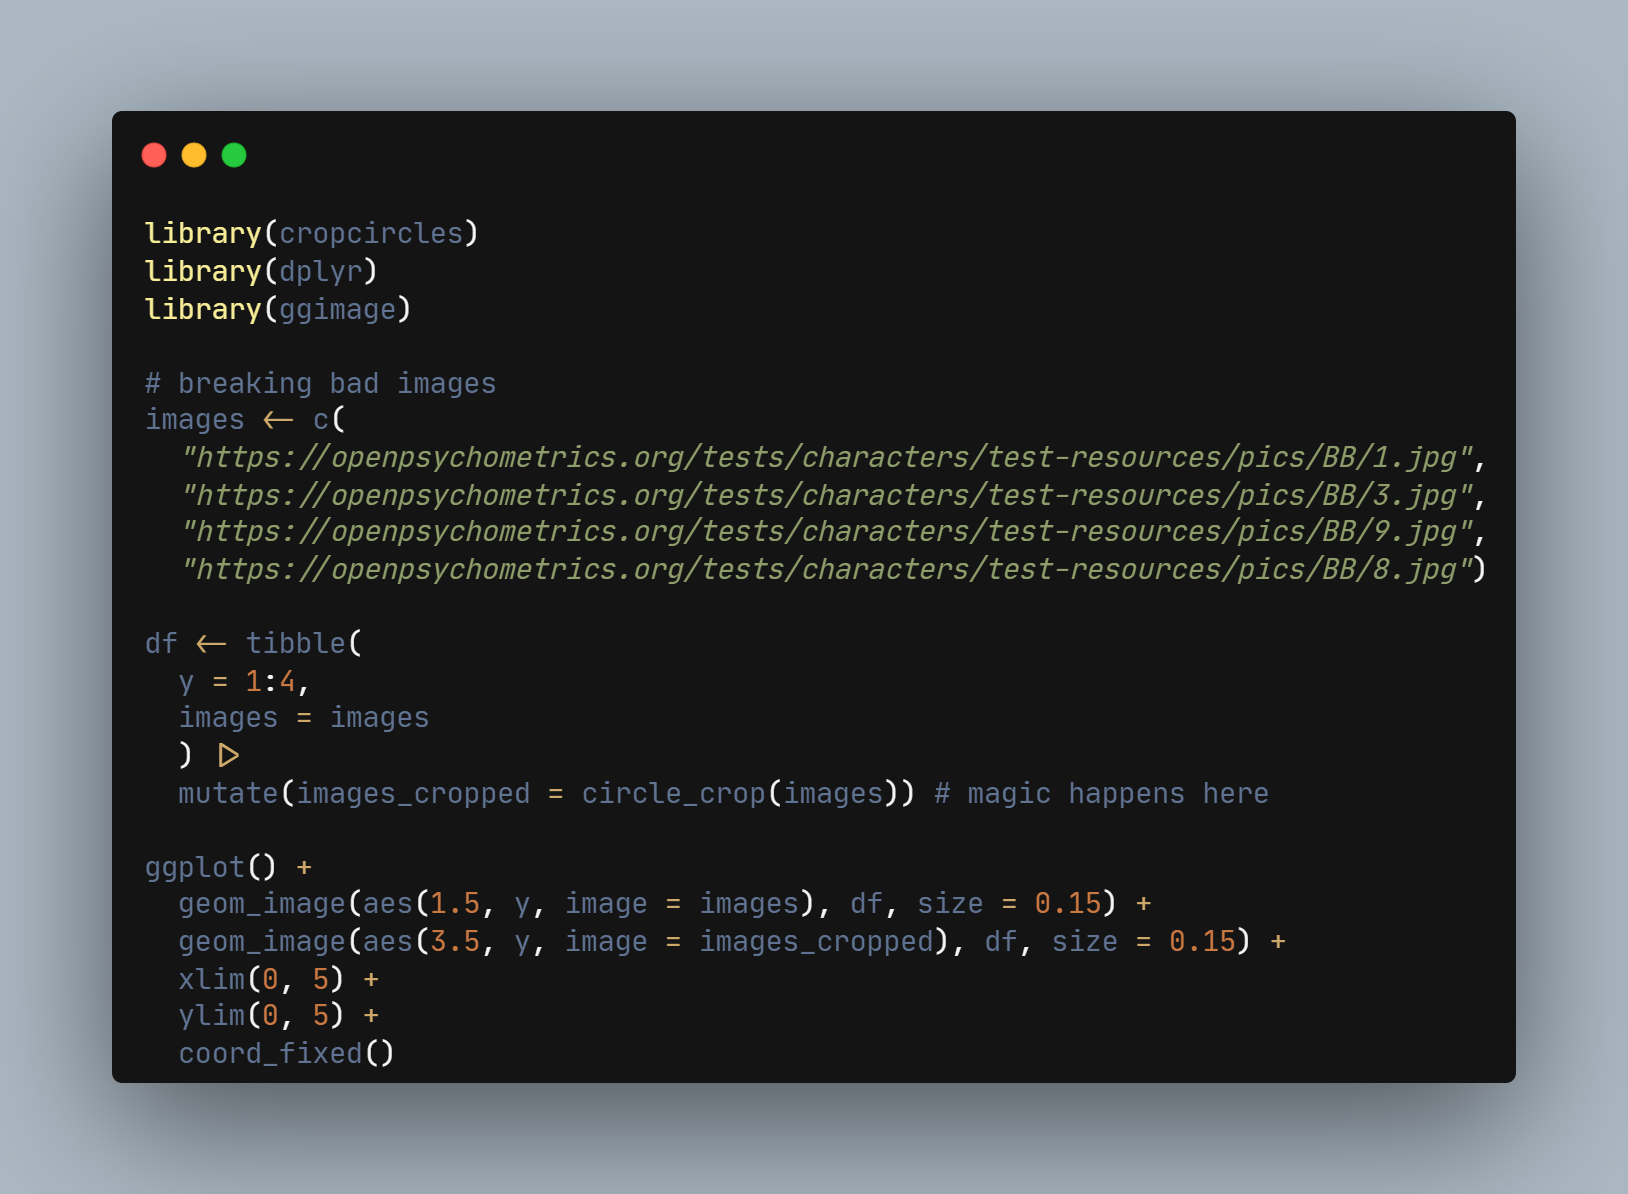
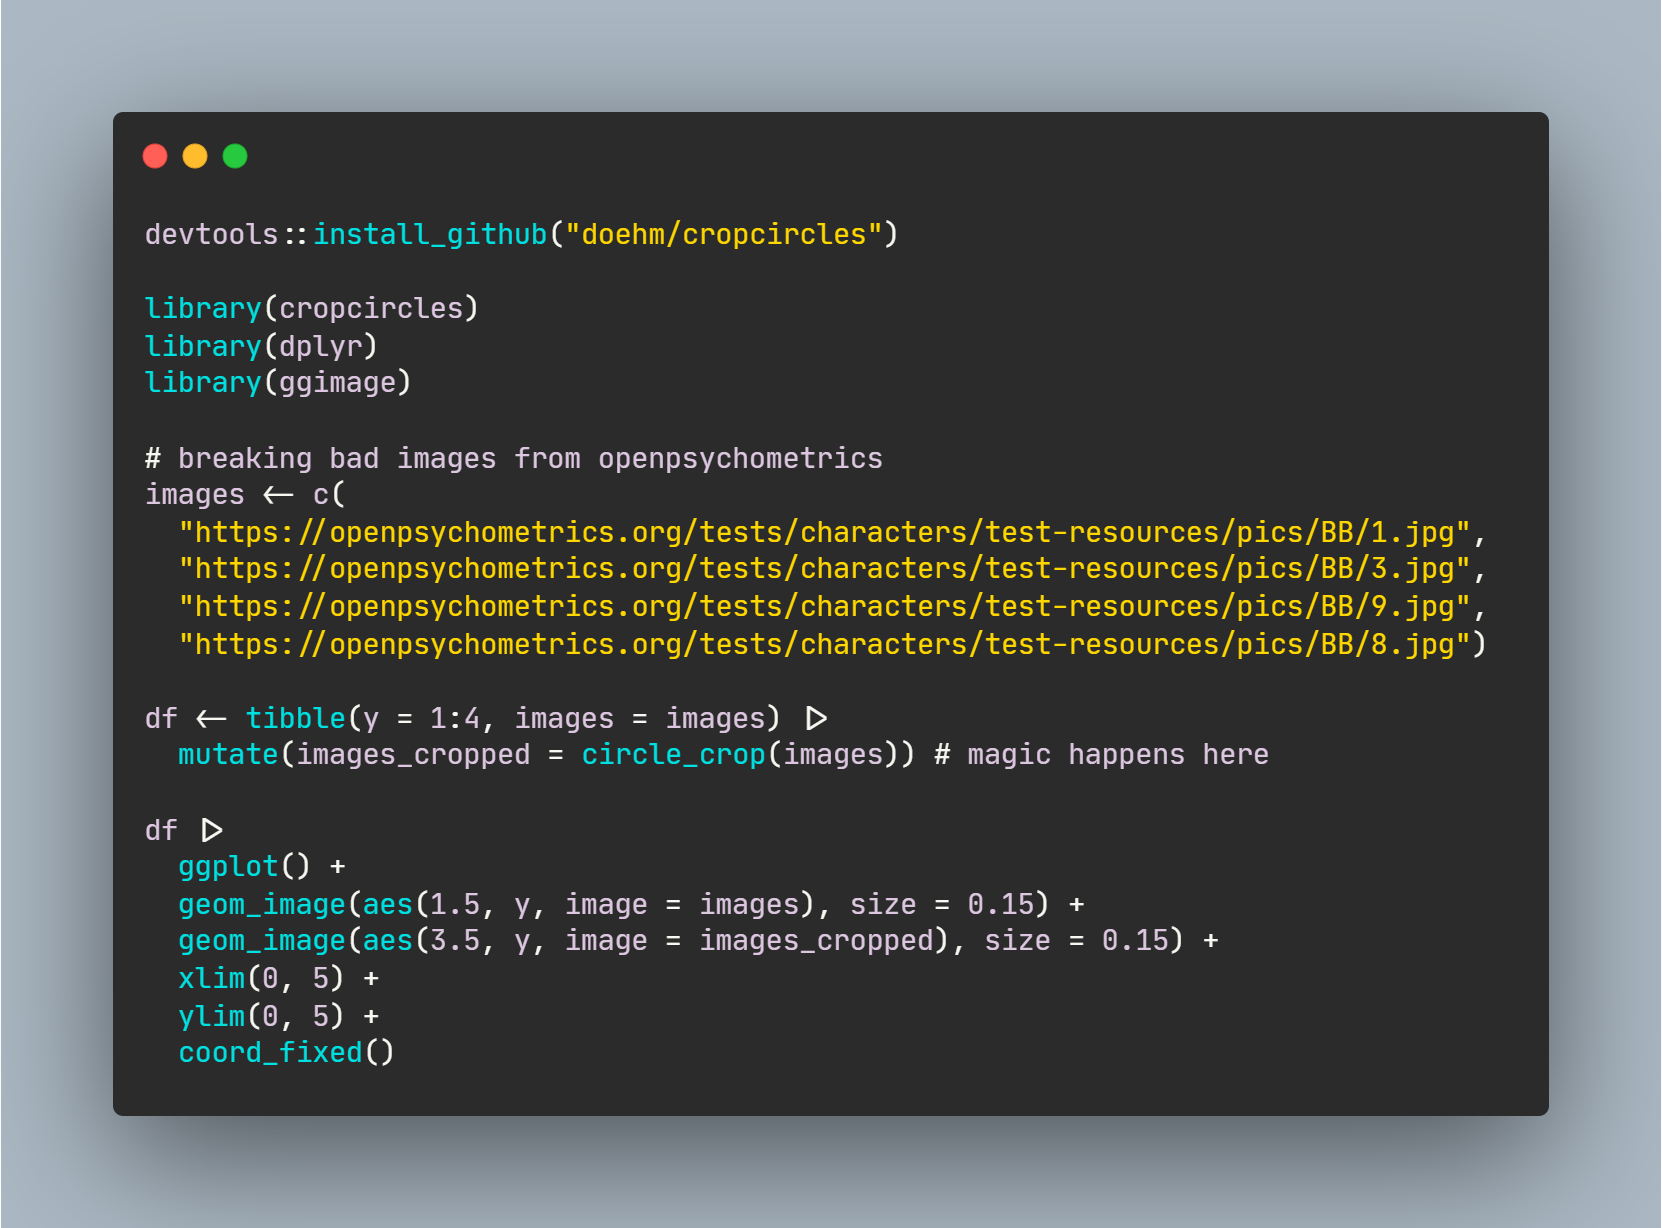
DEV making downloads quiet

Changed region(s): [[0.0614, 0.1859, 0.9214, 0.8987], [0.3686, 0.6508, 0.7678, 0.6817], [0.0921, 0.124, 0.1536, 0.1549]]

diff --git a/README.md b/README.md
@@ -34,15 +34,13 @@ images <- c(
   "https://openpsychometrics.org/tests/characters/test-resources/pics/BB/9.jpg", 
   "https://openpsychometrics.org/tests/characters/test-resources/pics/BB/8.jpg")
 
-df <- tibble(
-  y = 1:4,
-  images = images
-  ) |> 
+df <- tibble(y = 1:4, images = images) |> 
   mutate(images_cropped = circle_crop(images))
 
-ggplot() +
-  geom_image(aes(1.5, y, image = images), df, size = 0.15) +
-  geom_image(aes(3.5, y, image = images_cropped), df, size = 0.15) +
+df |> 
+  ggplot() +
+  geom_image(aes(1.5, y, image = images), size = 0.15) +
+  geom_image(aes(3.5, y, image = images_cropped), size = 0.15) +
   xlim(0, 5) +
   ylim(0, 5) +
   coord_fixed()
